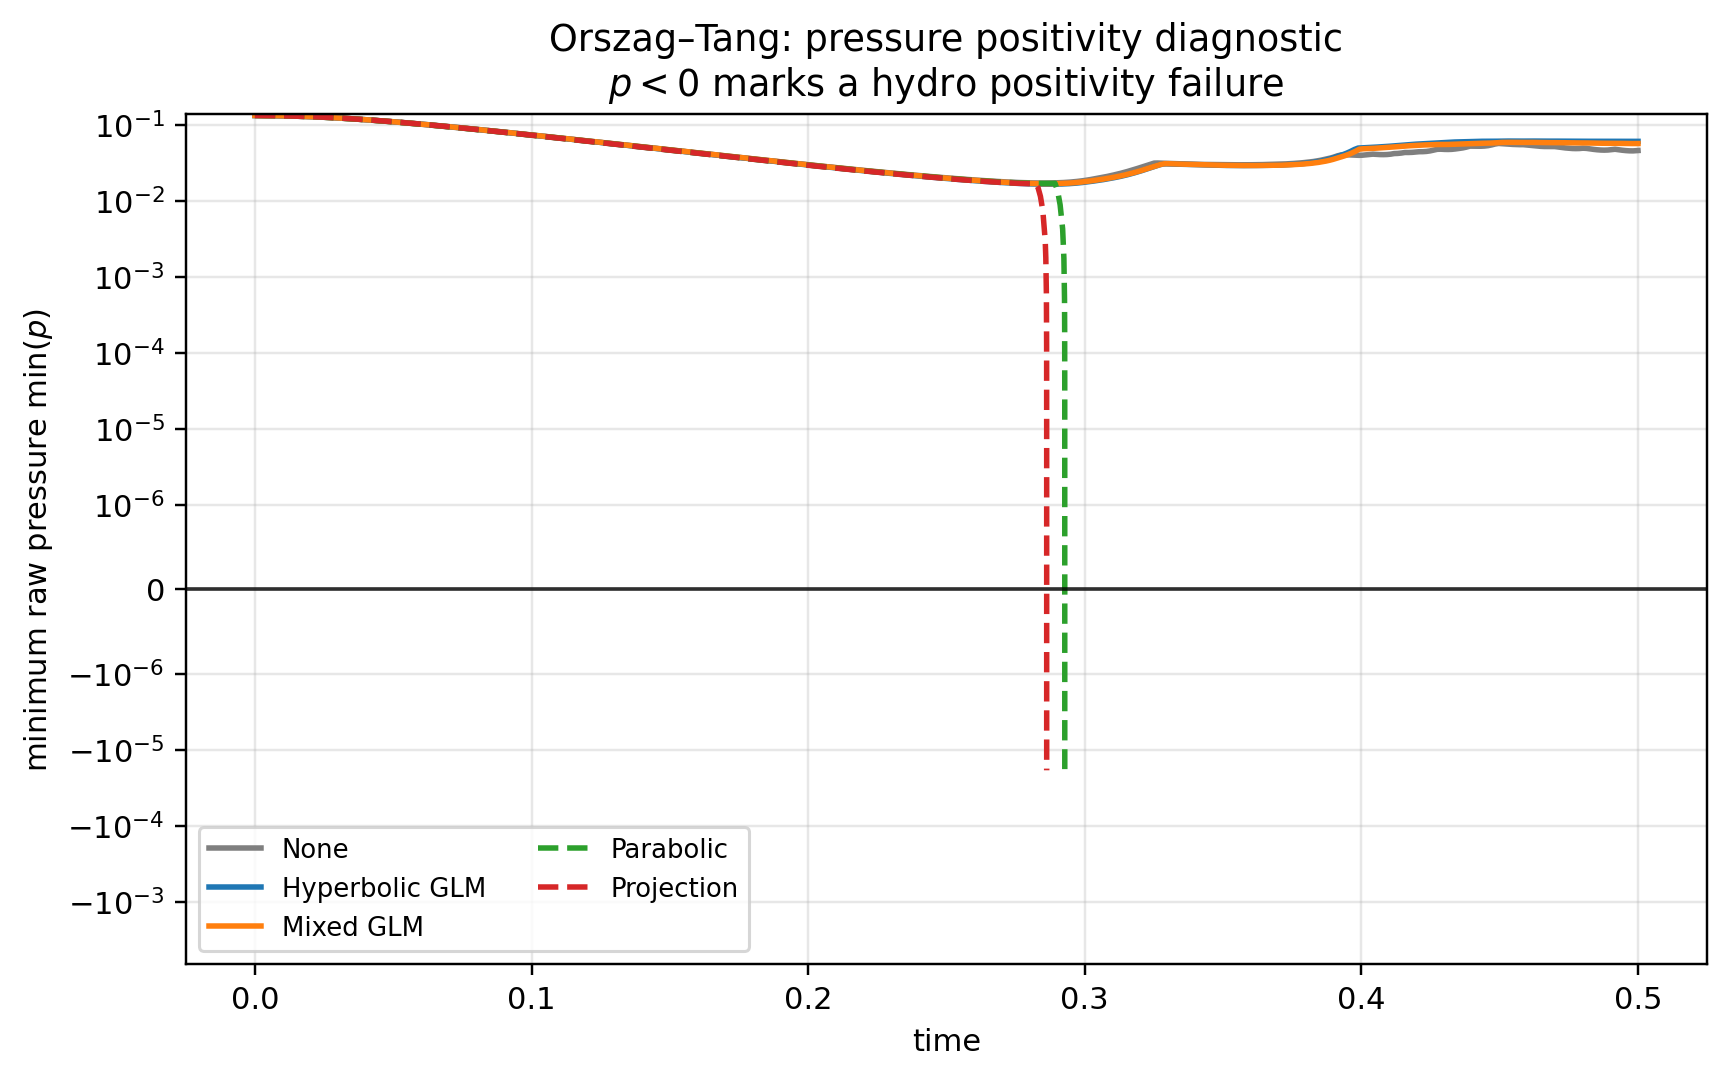
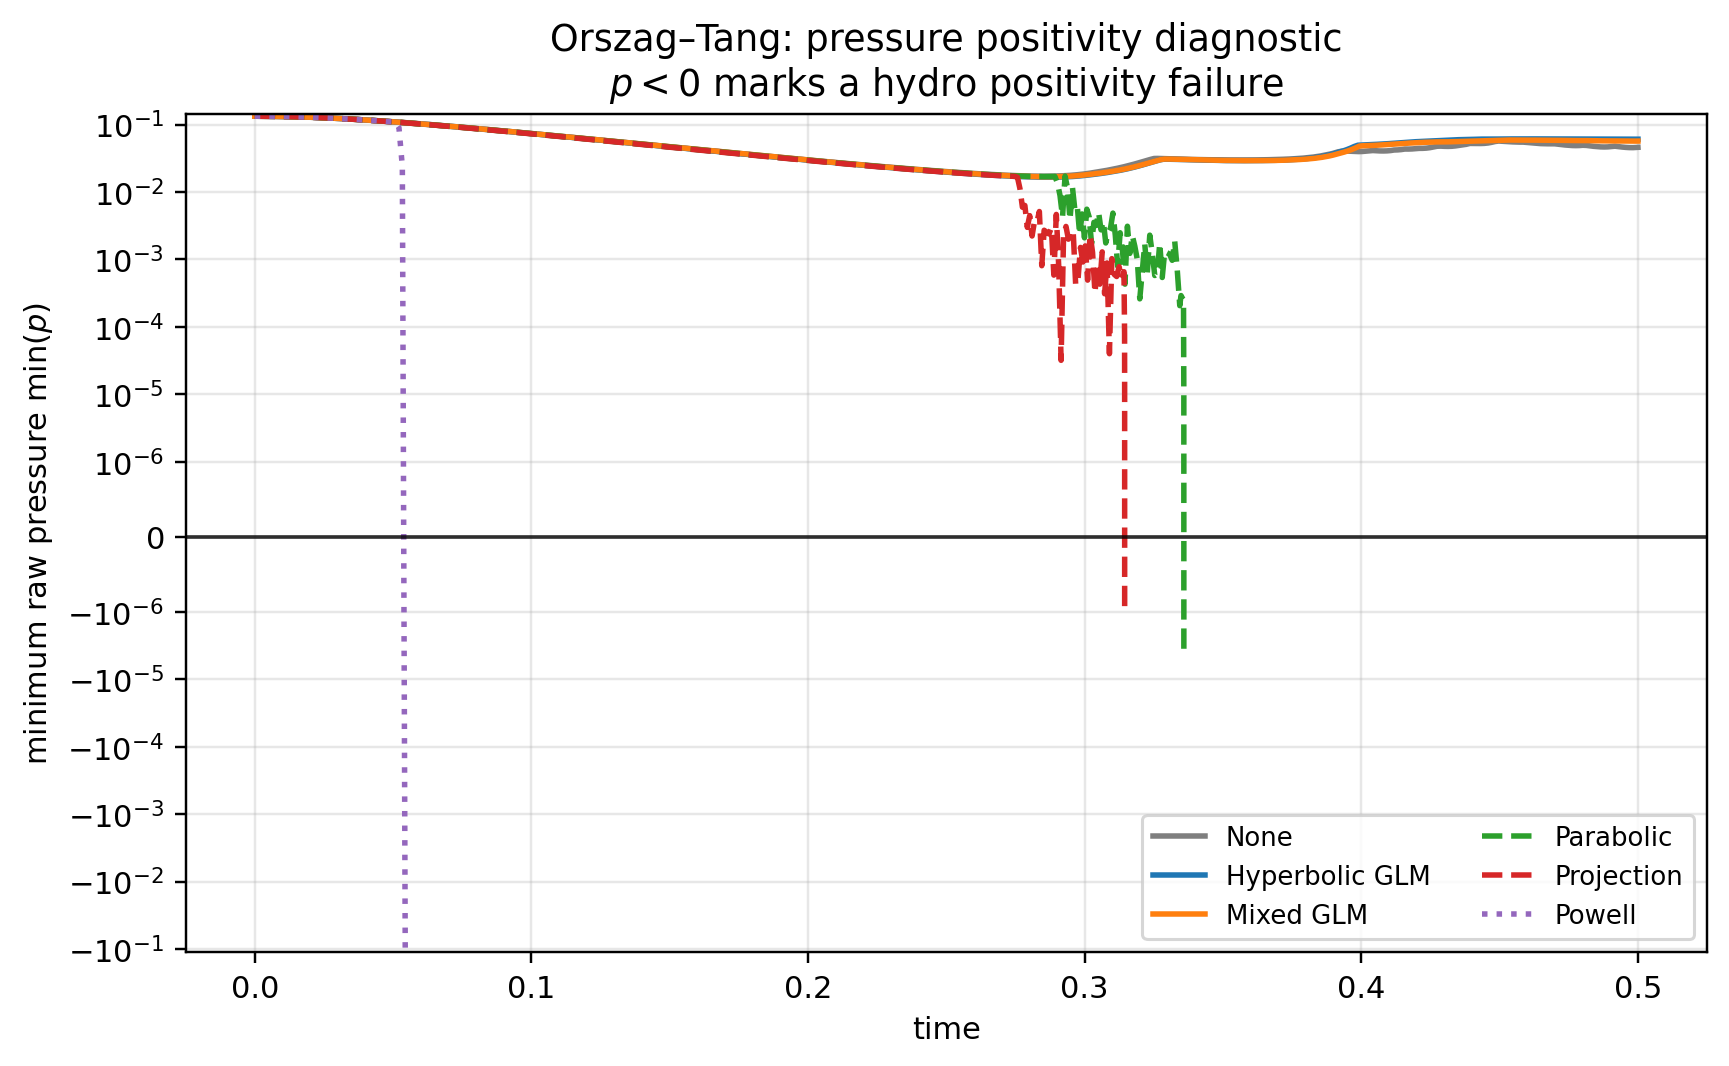
Rerun the failure comparison graph

diff --git a/src/mhd_runner.cpp b/src/mhd_runner.cpp
@@ -658,14 +658,22 @@ double max_signal_speed_2d(
 
 // -----------------------------------------------------------------------------
 //  Finite-volume RHS = -div(F) on a periodic grid.
-//  Calls MHD::compute_flux at every interface; does not re-implement HLLD.
+//  Calls MHD::compute_flux (HLLD) at every interface, falling back to the
+//  diffusive MHD::compute_llf_flux on faces flagged in the LLF masks. Does not
+//  re-implement either Riemann solver.
 // -----------------------------------------------------------------------------
 //  Face-flux storage convention:
 //    flux_x[idx2d(i, j, nx)] = numerical flux between cells (i-1, j) and (i, j)
 //    flux_y[idx2d(i, j, nx)] = numerical flux between cells (i, j-1) and (i, j)
+//
+//  llf_face_x[face] / llf_face_y[face] select the diffusive LLF flux on that
+//  face. A face flux is shared by both adjacent cells, so swapping HLLD <-> LLF
+//  on a face keeps the conservative update exactly conservative.
 
-std::vector<State> compute_rhs_hlld_2d(
+std::vector<State> compute_rhs_blended_2d(
     const std::vector<State>& U,
+    const std::vector<char>& llf_face_x,
+    const std::vector<char>& llf_face_y,
     int nx, int ny,
     double dx, double dy,
     double gamma
@@ -679,9 +687,12 @@ std::vector<State> compute_rhs_hlld_2d(
     for (int j = 0; j < ny; ++j) {
         for (int i = 0; i < nx; ++i) {
             const int iL = periodic_index(i - 1, nx);
+            const int face = idx2d(i, j, nx);
             const PrimState WL = state_to_prim(U[idx2d(iL, j, nx)], gamma);
             const PrimState WR = state_to_prim(U[idx2d(i,  j, nx)], gamma);
-            flux_x[idx2d(i, j, nx)] = compute_flux(WL, WR, /*direction=*/0, gamma);
+            flux_x[face] = llf_face_x[face]
+                ? compute_llf_flux(WL, WR, /*direction=*/0, gamma)
+                : compute_flux(WL, WR, /*direction=*/0, gamma);
         }
     }
 
@@ -689,9 +700,12 @@ std::vector<State> compute_rhs_hlld_2d(
     for (int j = 0; j < ny; ++j) {
         const int jL = periodic_index(j - 1, ny);
         for (int i = 0; i < nx; ++i) {
+            const int face = idx2d(i, j, nx);
             const PrimState WL = state_to_prim(U[idx2d(i, jL, nx)], gamma);
             const PrimState WR = state_to_prim(U[idx2d(i, j,  nx)], gamma);
-            flux_y[idx2d(i, j, nx)] = compute_flux(WL, WR, /*direction=*/1, gamma);
+            flux_y[face] = llf_face_y[face]
+                ? compute_llf_flux(WL, WR, /*direction=*/1, gamma)
+                : compute_flux(WL, WR, /*direction=*/1, gamma);
         }
     }
 
@@ -719,6 +733,95 @@ std::vector<State> compute_rhs_hlld_2d(
     return RHS;
 }
 
+// Raw positivity test on a conserved cell: finite, positive density, and
+// positive thermal pressure (no flooring).
+bool cell_is_physical(const State& s, double gamma) {
+    const double rho = s[RHO];
+    if (!std::isfinite(rho) || rho <= 0.0) {
+        return false;
+    }
+    const double ke =
+        0.5 * (s[MX]*s[MX] + s[MY]*s[MY] + s[MZ]*s[MZ]) / rho;
+    const double me =
+        0.5 * (s[BX]*s[BX] + s[BY]*s[BY] + s[BZ]*s[BZ]);
+    const double p = (gamma - 1.0) * (s[E] - ke - me);
+    return std::isfinite(p) && p > 0.0;
+}
+
+// -----------------------------------------------------------------------------
+//  Positivity-preserving stage update (Option A).
+//
+//  Forms  new[id] = base[id] + coeff * dt * RHS(flux_state)  using HLLD fluxes.
+//  Any cell whose updated state has non-positive density or pressure has the
+//  four faces bounding it switched to the diffusive LLF flux, and the update is
+//  recomputed. Because a face flux is shared, this stays conservative. The LLF
+//  masks only ever grow, so the sweep loop is guaranteed to terminate; MAX_SWEEPS
+//  bounds the cost. Any cell still non-positive after the limiter is left for the
+//  runner's positivity scan to flag (we never floor silently).
+//
+//  For runs that never hit a positivity failure (e.g. None / GLM on Orszag-Tang)
+//  no faces are ever flagged and the result is bit-identical to plain HLLD.
+// -----------------------------------------------------------------------------
+
+std::vector<State> positivity_limited_stage(
+    const std::vector<State>& base,
+    const std::vector<State>& flux_state,
+    double coeff,
+    double dt,
+    int nx, int ny,
+    double dx, double dy,
+    double gamma
+) {
+    const int ncell = nx * ny;
+    constexpr int MAX_SWEEPS = 8;
+
+    std::vector<char> llf_x(ncell, 0);
+    std::vector<char> llf_y(ncell, 0);
+    std::vector<State> out(ncell);
+
+    for (int sweep = 0; ; ++sweep) {
+        const std::vector<State> RHS =
+            compute_rhs_blended_2d(
+                flux_state, llf_x, llf_y, nx, ny, dx, dy, gamma);
+
+        for (int id = 0; id < ncell; ++id) {
+            for (int k = 0; k < NVAR; ++k) {
+                out[id][k] = base[id][k] + coeff * dt * RHS[id][k];
+            }
+        }
+
+        if (sweep >= MAX_SWEEPS) {
+            break;  // best effort; runner's positivity scan handles any remainder
+        }
+
+        int newly_marked = 0;
+        for (int j = 0; j < ny; ++j) {
+            const int jp = periodic_index(j + 1, ny);
+            for (int i = 0; i < nx; ++i) {
+                if (cell_is_physical(out[idx2d(i, j, nx)], gamma)) {
+                    continue;
+                }
+                const int ip = periodic_index(i + 1, nx);
+                char* faces[4] = {
+                    &llf_x[idx2d(i,  j,  nx)],   // left
+                    &llf_x[idx2d(ip, j,  nx)],   // right
+                    &llf_y[idx2d(i,  j,  nx)],   // bottom
+                    &llf_y[idx2d(i,  jp, nx)],   // top
+                };
+                for (char* f : faces) {
+                    if (*f == 0) { *f = 1; ++newly_marked; }
+                }
+            }
+        }
+
+        if (newly_marked == 0) {
+            break;  // offending cells already fully LLF; nothing more to do
+        }
+    }
+
+    return out;
+}
+
 // -----------------------------------------------------------------------------
 //  Heun (RK2) update with HLLD fluxes only. Cleaning is applied separately.
 //
@@ -736,14 +839,10 @@ void rk2_step_hlld_2d(
 ) {
     const int ncell = nx * ny;
 
-    const std::vector<State> R1 = compute_rhs_hlld_2d(U, nx, ny, dx, dy, gamma);
-
-    std::vector<State> Us(ncell);
-    for (int id = 0; id < ncell; ++id) {
-        for (int k = 0; k < NVAR; ++k) {
-            Us[id][k] = U[id][k] + dt * R1[id][k];
-        }
-    }
+    // Predictor: Us = U + dt * RHS(U), positivity-limited (Option A).
+    std::vector<State> Us =
+        positivity_limited_stage(U, U, /*coeff=*/1.0, dt,
+                                 nx, ny, dx, dy, gamma);
 
     // Task C: optional projection on the intermediate predictor state.
     if (stage_glm_params != nullptr) {
@@ -778,13 +877,15 @@ void rk2_step_hlld_2d(
         }
     }
 
-    const std::vector<State> R2 = compute_rhs_hlld_2d(Us, nx, ny, dx, dy, gamma);
-
+    // Corrector: U = 0.5*(U + Us) + 0.5*dt*RHS(Us), positivity-limited (Option A).
+    std::vector<State> base(ncell);
     for (int id = 0; id < ncell; ++id) {
         for (int k = 0; k < NVAR; ++k) {
-            U[id][k] = 0.5 * (U[id][k] + Us[id][k] + dt * R2[id][k]);
+            base[id][k] = 0.5 * (U[id][k] + Us[id][k]);
         }
     }
+    U = positivity_limited_stage(base, Us, /*coeff=*/0.5, dt,
+                                 nx, ny, dx, dy, gamma);
 }
 
 // Overload without stage projection (backward-compatible default).

diff --git a/src/hlld_solver.cpp b/src/hlld_solver.cpp
@@ -384,6 +384,40 @@ State hlld_flux_normal(const PrimState& WL, const PrimState& WR, double gamma) {
 }
 
 // -----------------------------------------------------------------------------
+//  Local Lax-Friedrichs (Rusanov) flux (normal frame)
+//
+//  Diffusive single-speed flux used as a positivity-preserving fallback when the
+//  HLLD update would drive density or pressure non-positive. Matches the HLLD
+//  convention here: the normal field and psi are passive in the hydro flux
+//  (F[IB1] = F[IPSI] = 0), so swapping HLLD <-> LLF on a face does not alter the
+//  divergence treatment, only the amount of dissipation.
+// -----------------------------------------------------------------------------
+
+State llf_flux_normal(const PrimState& WL, const PrimState& WR, double gamma) {
+    // Enforce a unique normal B at the interface (as in HLLD).
+    const double Bn = 0.5 * (WL.Bx + WR.Bx);
+    PrimState L = WL; L.Bx = Bn;
+    PrimState R = WR; R.Bx = Bn;
+
+    const double cfL = fast_magnetosonic_speed(L, gamma);
+    const double cfR = fast_magnetosonic_speed(R, gamma);
+    const double smax = std::max(std::abs(L.u) + cfL, std::abs(R.u) + cfR);
+
+    const State UL = L.to_conserved(gamma);
+    const State UR = R.to_conserved(gamma);
+    const State FL = physical_flux(L, gamma);
+    const State FR = physical_flux(R, gamma);
+
+    State F{};
+    for (int i = 0; i < NVAR; ++i) {
+        F[i] = 0.5 * (FL[i] + FR[i]) - 0.5 * smax * (UR[i] - UL[i]);
+    }
+    F[IB1]  = 0.0;
+    F[IPSI] = 0.0;
+    return F;
+}
+
+// -----------------------------------------------------------------------------
 //  Public interface
 // -----------------------------------------------------------------------------
 
@@ -393,6 +427,14 @@ State compute_flux(const PrimState& W_L, const PrimState& W_R,
     PrimState L_rot = rotate_to_normal(W_L, direction);
     PrimState R_rot = rotate_to_normal(W_R, direction);
     State F_rot = hlld_flux_normal(L_rot, R_rot, gamma);
+    return rotate_flux_back(F_rot, direction);
+}
+
+State compute_llf_flux(const PrimState& W_L, const PrimState& W_R,
+                       int direction, double gamma) {
+    PrimState L_rot = rotate_to_normal(W_L, direction);
+    PrimState R_rot = rotate_to_normal(W_R, direction);
+    State F_rot = llf_flux_normal(L_rot, R_rot, gamma);
     return rotate_flux_back(F_rot, direction);
 }
 

diff --git a/include/HLLD_mhd_solver.hpp b/include/HLLD_mhd_solver.hpp
@@ -88,9 +88,18 @@ State physical_flux(const PrimState& W, double gamma);
 
 State hlld_flux_normal(const PrimState& WL, const PrimState& WR, double gamma);
 
+// Local Lax-Friedrichs (Rusanov) flux in the normal frame. Far more diffusive
+// than HLLD; used as a positivity-preserving fallback flux.
+State llf_flux_normal(const PrimState& WL, const PrimState& WR, double gamma);
+
 // Public interface: rotate to normal frame -> HLLD -> rotate flux back.
 // direction = 0 (X-flux) or 1 (Y-flux).
 State compute_flux(const PrimState& W_L, const PrimState& W_R,
                    int direction, double gamma);
+
+// Same as compute_flux but with the diffusive LLF flux. Used as the fallback
+// for cells where the HLLD update would produce non-positive density/pressure.
+State compute_llf_flux(const PrimState& W_L, const PrimState& W_R,
+                       int direction, double gamma);
 
 } // namespace MHD
